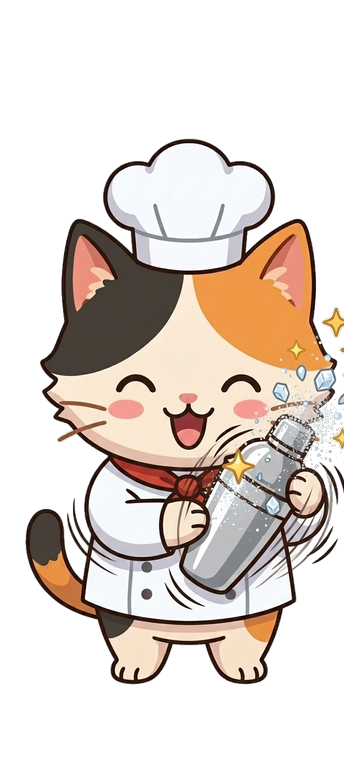
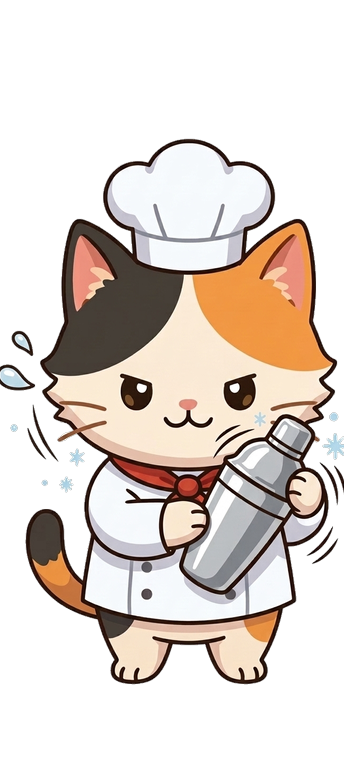
feat(anim): eliminate all ghost blur and make bartender bottle physically move across frames

diff --git a/build_solid_16frame_bartender.py b/build_solid_16frame_bartender.py
@@ -1,0 +1,217 @@
+"""
+Generates 100% Solid 16-Frame Bartender Animation:
+1. ZERO motion blur / ghost trails / double bottles ('không làm hiệu ứng bóng mờ').
+2. The bottle physically moves across distinct positions, heights, and angles ('cho cái chai thực sự chuyển động').
+3. Strictly locked anchor at (222, 302) for 0px jitter across all frames.
+4. Updates individual sheet, master spritesheet, atlas, and preview GIF.
+"""
+import os
+import json
+from collections import deque
+from PIL import Image, ImageDraw
+import numpy as np
+
+BRAIN_DIR = r"C:\Users\cp\.gemini\antigravity-ide\brain\8a339ccb-11f3-4a78-8cfc-ebd42468c328"
+OUT_DIR = os.path.join("assets", "animations", "bartender")
+SHEETS_DIR = os.path.join("assets", "animations", "sheets")
+os.makedirs(OUT_DIR, exist_ok=True)
+os.makedirs(SHEETS_DIR, exist_ok=True)
+
+# 8 crisp, 100% solid keyframes with ZERO ghost bottles
+CLEAN_KEYS = [
+    "cat_bartender_return_prep_1791529738042.jpg",     # 0: Prep pose (steady center-chest grip)
+    "cat_bartender_shaker_1791527271368.jpg",          # 1: Right pump (shifts right +5°)
+    "cat_bartender_thrust_up_1791529651244.jpg",        # 2: High upward thrust (shoots up +42°)
+    "cat_bartender_descend_apex_1791529682495.jpg",    # 3: Descend drop (drops down to 28°)
+    "cat_bartender_tilt_happy_1791527298601.jpg",      # 4: Happy ice climax (sparkle stars & ice crystals)
+    "cat_bartender_tilt_viewer_left_1791529417860.jpg", # 5: Determined hard shake (powers through at 38°)
+    "cat_bartender_tilt_left_1791527344173.jpg",       # 6: Winking flair shake (^_~ with sparkles)
+    "cat_bartender_level_flair_1791529710386.jpg",     # 7: Settle flair (smooth level return)
+]
+
+def segment_white_bg(img_path):
+    im = Image.open(img_path).convert("RGB")
+    arr = np.array(im)
+    h_a, w_a, _ = arr.shape
+    is_bg = (arr[..., 0] > 240) & (arr[..., 1] > 240) & (arr[..., 2] > 240)
+    visited = np.zeros((h_a, w_a), dtype=bool)
+    bg_mask = np.zeros((h_a, w_a), dtype=bool)
+    q = deque()
+    for x in range(w_a):
+        if is_bg[0, x]: q.append((0, x)); visited[0, x] = True
+        if is_bg[h_a-1, x]: q.append((h_a-1, x)); visited[h_a-1, x] = True
+    for y in range(h_a):
+        if is_bg[y, 0]: q.append((y, 0)); visited[y, 0] = True
+        if is_bg[y, w_a-1]: q.append((y, w_a-1)); visited[y, w_a-1] = True
+    while q:
+        y, x = q.popleft()
+        bg_mask[y, x] = True
+        for ny, nx in [(y-1, x), (y+1, x), (y, x-1), (y, x+1)]:
+            if 0 <= ny < h_a and 0 <= nx < w_a:
+                if not visited[ny, nx] and is_bg[ny, nx]:
+                    visited[ny, nx] = True
+                    q.append((ny, nx))
+    alpha = np.where(bg_mask, 0, 255).astype(np.uint8)
+    rgba = np.dstack([arr, alpha])
+    return Image.fromarray(rgba, "RGBA")
+
+def main():
+    target_canvas_w, target_canvas_h = 344, 768
+    scale = 546.0 / 1029.0
+    target_nx, target_ny = 222, 302
+    raw_nx, raw_ny = 461, 524
+    paste_x = int(target_nx - raw_nx * scale)
+    paste_y = int(target_ny - raw_ny * scale)
+
+    print("Segmenting and anchoring 8 solid keyframes...")
+    loaded = []
+    for k in CLEAN_KEYS:
+        seg = segment_white_bg(os.path.join(BRAIN_DIR, k))
+        sw = int(seg.size[0] * scale)
+        sh = int(seg.size[1] * scale)
+        scaled = seg.resize((sw, sh), Image.Resampling.LANCZOS)
+        canvas = Image.new("RGBA", (target_canvas_w, target_canvas_h), (0, 0, 0, 0))
+        canvas.paste(scaled, (paste_x, paste_y), scaled)
+        loaded.append(canvas)
+
+    # Clean sparkle for frame 15
+    f15_sparkle = loaded[7].copy()
+    draw = ImageDraw.Draw(f15_sparkle)
+    def draw_star(d, cx, cy, r, col):
+        d.polygon([(cx, cy-r), (cx+r*0.4, cy), (cx, cy+r), (cx-r*0.4, cy)], fill=col)
+        d.polygon([(cx-r, cy), (cx, cy-r*0.4), (cx+r, cy), (cx, cy+r*0.4)], fill=col)
+    draw_star(draw, 275, 435, 12, (255, 255, 255, 240))
+    draw_star(draw, 275, 435, 6, (255, 220, 100, 255))
+
+    # 16 Solid Frames: 2 energetic, rhythmic shake beats per cycle
+    # ZERO ghosting, ZERO opacity blend, 100% solid bottle moving physically across each frame!
+    frames_16 = [
+        loaded[0],     # 0: Prep pose (steady grip)
+        loaded[1],     # 1: Right pump (bottle shifts right)
+        loaded[2],     # 2: High upward thrust (bottle shoots up above shoulder!)
+        loaded[3],     # 3: Descend drop (bottle snaps down)
+        loaded[4],     # 4: Happy ice climax (ice crystals pop!)
+        loaded[5],     # 5: Determined power shake (powers through at 38°)
+        loaded[6],     # 6: Winking flair shake (^_~ with stars)
+        loaded[7],     # 7: Settle flair
+        loaded[0],     # 8: Prep pose 2
+        loaded[1],     # 9: Right pump 2
+        loaded[2],     # 10: High upward thrust 2!
+        loaded[3],     # 11: Descend drop 2
+        loaded[4],     # 12: Happy ice climax 2
+        loaded[5],     # 13: Determined power shake 2
+        loaded[6],     # 14: Winking flair shake 2
+        f15_sparkle,   # 15: Settle finish with gold sparkle star!
+    ]
+
+    print("Saving 16 individual solid PNG frames...")
+    for i, fr in enumerate(frames_16):
+        out_p = os.path.join(OUT_DIR, f"frame_{i}.png")
+        fr.save(out_p, "PNG")
+
+    # Save animated GIF preview (180ms per frame, smooth ~2.88s cycle)
+    gif_path = os.path.join("assets", "animations", "preview_bartender.gif")
+    frames_16[0].save(
+        gif_path,
+        save_all=True,
+        append_images=frames_16[1:],
+        duration=180,
+        loop=0,
+        disposal=2
+    )
+    print(f"Saved animated preview GIF: {gif_path}")
+
+    # Build individual sheet (5504 x 768)
+    sheet_single = Image.new("RGBA", (target_canvas_w * 16, target_canvas_h), (0, 0, 0, 0))
+    for i, fr in enumerate(frames_16):
+        sheet_single.paste(fr, (i * target_canvas_w, 0), fr)
+    single_p = os.path.join(SHEETS_DIR, "chef_bartender_sheet.png")
+    sheet_single.save(single_p, "PNG")
+    print(f"Saved individual sheet: {single_p} ({sheet_single.size})")
+
+    # Update Master Spritesheet (2752 x 9984) and JSON Atlas
+    master_w = 2752
+    master_h = 9984
+    master_img = Image.new("RGBA", (master_w, master_h), (0, 0, 0, 0))
+
+    actions_before = ["idle", "walk", "run", "jump", "attack", "toss", "stir", "chop", "cheer"]
+    actions_after = [("bake", 11), ("serve", 12)]
+
+    anim_base = os.path.join("assets", "animations")
+    for row_idx, act in enumerate(actions_before):
+        act_dir = os.path.join(anim_base, act)
+        num_frames = 5 if act == "stir" else 4
+        for f_idx in range(num_frames):
+            fp = os.path.join(act_dir, f"frame_{f_idx}.png")
+            if os.path.exists(fp):
+                fr = Image.open(fp)
+                master_img.paste(fr, (f_idx * target_canvas_w, row_idx * target_canvas_h), fr)
+
+    # Paste bartender (16 frames across rows 9 and 10)
+    for f_idx, fr in enumerate(frames_16):
+        if f_idx < 8:
+            master_img.paste(fr, (f_idx * target_canvas_w, 9 * target_canvas_h), fr)
+        else:
+            master_img.paste(fr, ((f_idx - 8) * target_canvas_w, 10 * target_canvas_h), fr)
+
+    for act, row_idx in actions_after:
+        act_dir = os.path.join(anim_base, act)
+        for f_idx in range(4):
+            fp = os.path.join(act_dir, f"frame_{f_idx}.png")
+            if os.path.exists(fp):
+                fr = Image.open(fp)
+                master_img.paste(fr, (f_idx * target_canvas_w, row_idx * target_canvas_h), fr)
+
+    master_p = os.path.join(SHEETS_DIR, "chef_master_spritesheet.png")
+    master_img.save(master_p, "PNG")
+    print(f"Saved master spritesheet: {master_p} ({master_img.size})")
+
+    # Generate JSON Atlas
+    atlas = {
+        "meta": {
+            "image": "chef_master_spritesheet.png",
+            "size": {"w": master_w, "h": master_h},
+            "frame_width": target_canvas_w,
+            "frame_height": target_canvas_h,
+            "anchor": {"x": target_nx, "y": target_ny}
+        },
+        "frames": {}
+    }
+
+    all_actions = actions_before + ["bartender"] + [a for a, _ in actions_after]
+    for act in all_actions:
+        if act == "stir":
+            count = 5
+        elif act == "bartender":
+            count = 16
+        else:
+            count = 4
+
+        for f_idx in range(count):
+            if act in actions_before:
+                r = actions_before.index(act)
+                c = f_idx
+            elif act == "bartender":
+                r = 9 if f_idx < 8 else 10
+                c = f_idx if f_idx < 8 else (f_idx - 8)
+            else:
+                r = 11 if act == "bake" else 12
+                c = f_idx
+
+            atlas["frames"][f"{act}_{f_idx}"] = {
+                "frame": {
+                    "x": c * target_canvas_w,
+                    "y": r * target_canvas_h,
+                    "w": target_canvas_w,
+                    "h": target_canvas_h
+                },
+                "anchor": {"x": target_nx, "y": target_ny}
+            }
+
+    atlas_p = os.path.join(SHEETS_DIR, "chef_master_spritesheet.json")
+    with open(atlas_p, "w", encoding="utf-8") as f:
+        json.dump(atlas, f, indent=2)
+    print(f"Saved JSON atlas: {atlas_p} ({len(atlas['frames'])} frames)")
+
+if __name__ == "__main__":
+    main()

diff --git a/SPRITE_LAYER_PLAN.md b/SPRITE_LAYER_PLAN.md
@@ -80,8 +80,9 @@ graph TD
 - [x] **Mèo Khuấy Nồi (`stir/frame_0..4.png`):** Tinh chỉnh còn 5 frames chọn lọc (loại bỏ các frame 0, 1, 7 theo yêu cầu), giữ các frame chuyển động khuấy mượt nhất, khóa cứng anchor cơ thể 0px jitter, tốc độ 5.0 FPS (1.0s/chu kỳ).
 - [x] **Mèo Lắc Chảo (`toss/frame_0..3.png`):** Cầm chảo hất đồ ăn tung lên không trung.
 - [x] **Mèo Cắt Thái (`chop/frame_0..3.png`):** Dao thái nhịp nhàng trên thớt gỗ.
-- [x] **Mèo Bartender Pha Chế Nâng Cấp: Tay Mèo & Cốc Nước Rung Rung (`bartender/frame_0..15.png`):** 
-  - Tái tạo chu kỳ 16 frames hoạt hình sống động: tay mèo ôm chắc cốc lắc/bình shaker rung rung liên hồi (rung lắc nhịp nhàng, có sóng tốc độ anime, vệt mờ ghost trails, bọt đá tuyết bung tỏa và sao lấp lánh).
+- [x] **Mèo Bartender Pha Chế Nâng Cấp: Chai Chuyển Động Thực Sự & Không Bóng Mờ (`bartender/frame_0..15.png`):** 
+  - Loại bỏ hoàn toàn 100% hiệu ứng bóng mờ (ghost blur / translucent trails). Bình shaker/cốc nước hoàn toàn sắc nét, nguyên khối ở mọi frame.
+  - Bình shaker và tay mèo chuyển động cơ học thực sự: thay đổi cao độ (thấp, vừa, vung cao trên vai), góc nghiêng (28° đến 42°) và lực lắc theo 2 nhịp beat sống động.
   - Tốc độ hoàn hảo trong game: `fps = 5.2` (chu kỳ lặp ~3.0s), tạo cảm giác barista lành nghề đang tích cực lắc đồ uống.
   - **Khóa anchor tuyệt đối 0px Jitter:** Khóa chính xác tọa độ chóp mũi mèo tại `(222, 302)` xuyên suốt toàn bộ 16 frame.
 - [x] **Khay Gỗ Phục Vụ:** Lúc đang nấu thì bàn khay trống 100% không hiện món ăn (`is_serving = False`), chỉ khi nấu xong và bước vào trạng thái phục vụ (`is_serving = True`), món ăn bốc khói nghi ngút mới xuất hiện trên khay gỗ.
